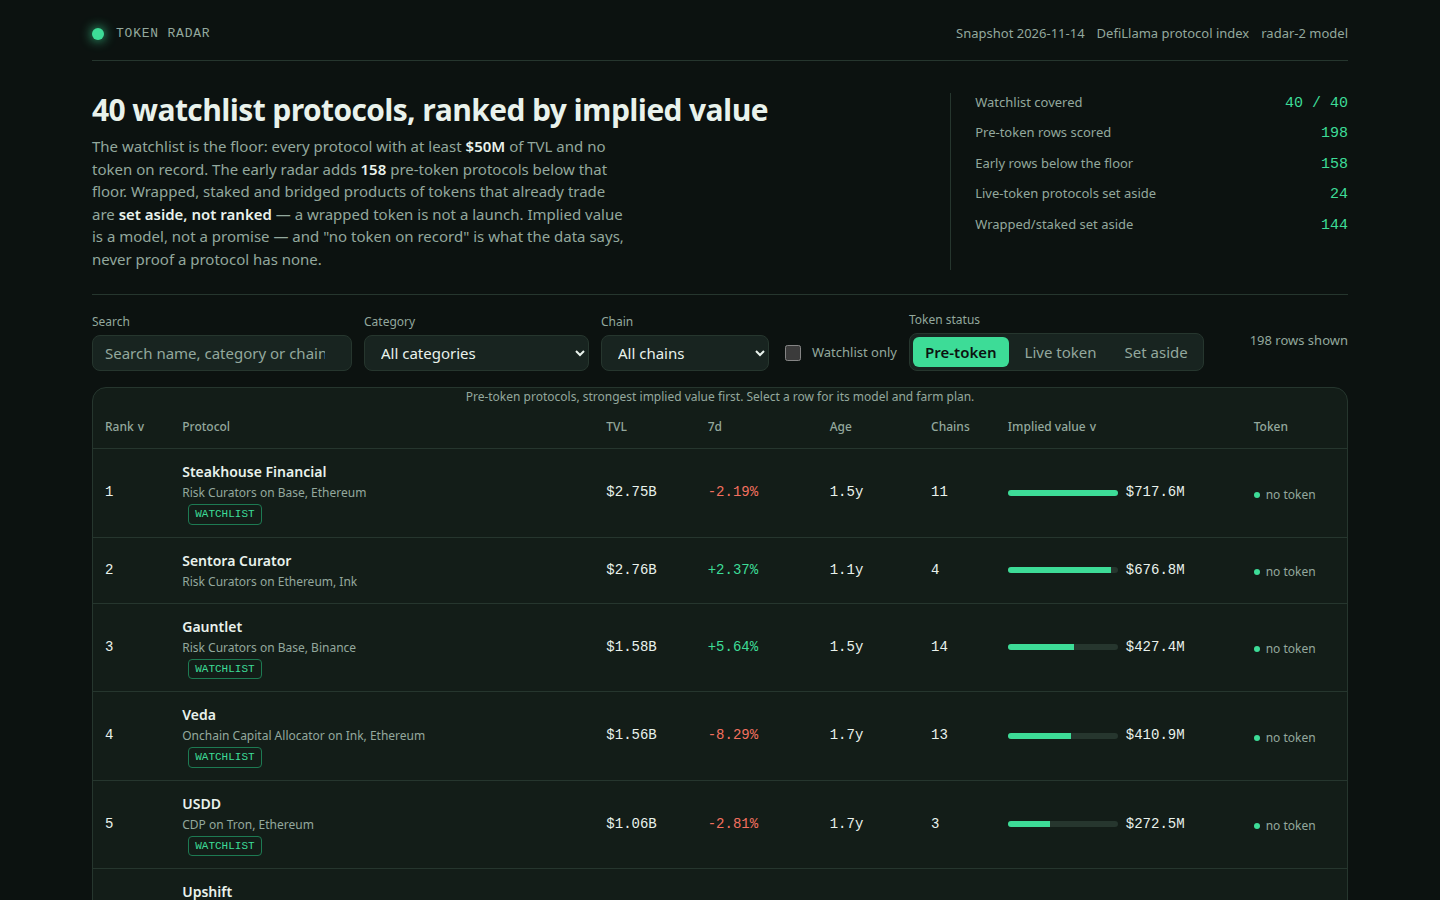
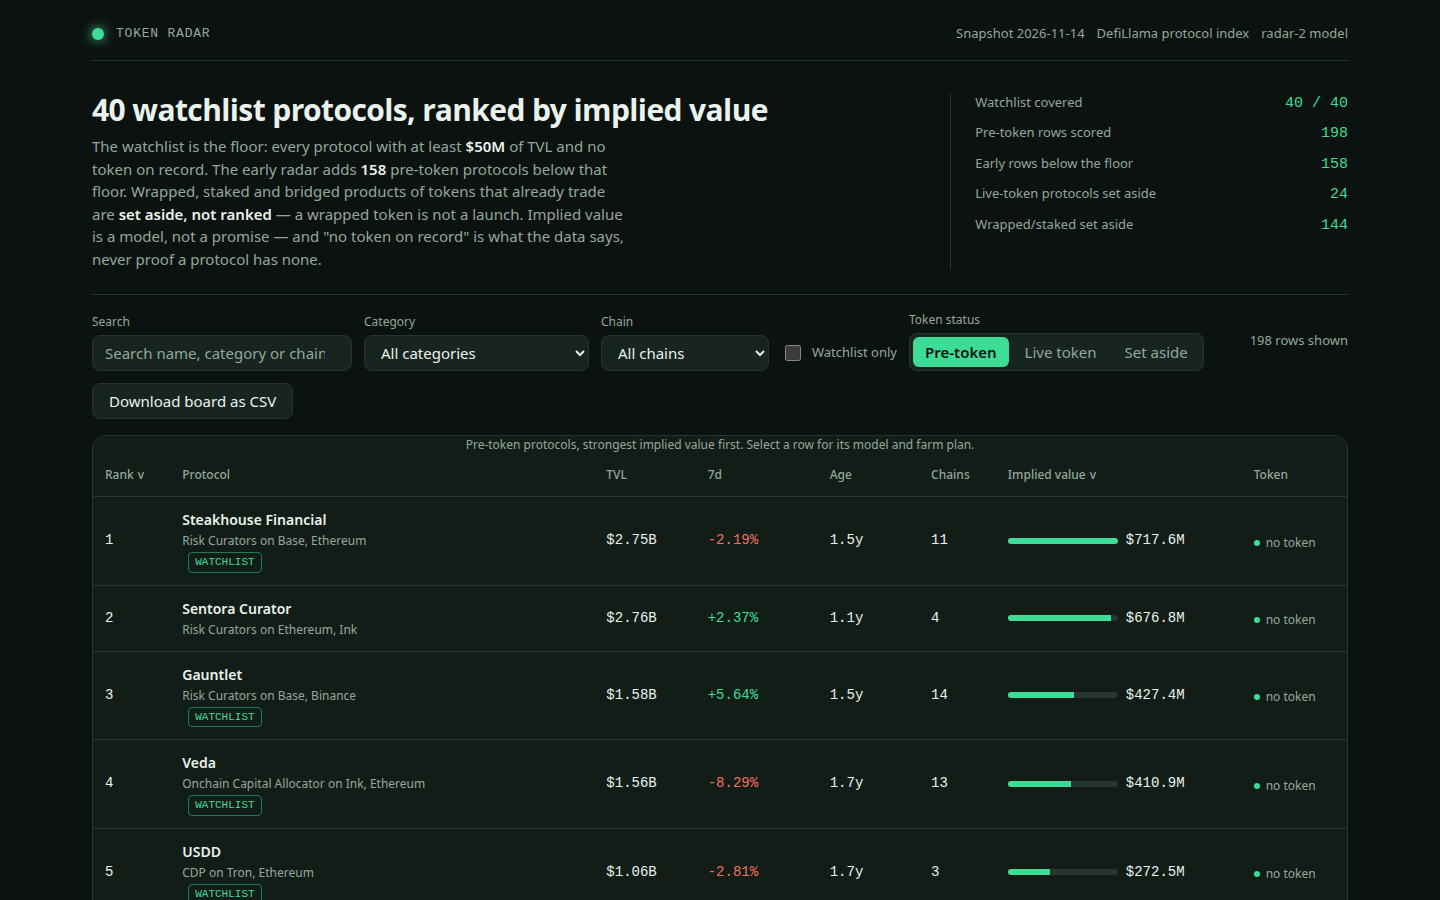
Add board CSV export, keep search focus, SPDX license line
- dashboard: Download board as CSV button exports the currently
  filtered/sorted pre-token rows (rank, protocol, slug, category,
  chains, TVL, 7d change, age, implied value, watchlist) as raw
  figures; proper CSV quoting; dark-theme .button styling.
- dashboard: render() restores focus to the search box after
  rebuilding, so typing a query no longer stops after one character.
- LICENSE: SPDX-License-Identifier: MIT line at the top.
- Screenshots re-shot against the updated dashboard.

diff --git a/dashboard/app.js b/dashboard/app.js
@@ -204,6 +204,41 @@
     });
   }
 
+  // Download the board as CSV: the rows the board is showing right now —
+  // the current search, category, chain and watchlist filters, in the
+  // current sort order. Raw figures, not the formatted strings, so the file
+  // is usable in a spreadsheet. Only the pre-token tab exports: the live
+  // and set-aside tabs have no ranked rows to export.
+  function csvCell(value) {
+    if (value === null || value === undefined) return '';
+    var s = String(value);
+    if (/[",\n\r]/.test(s)) return '"' + s.replace(/"/g, '""') + '"';
+    return s;
+  }
+  function boardCsv(list) {
+    var lines = [['rank', 'protocol', 'slug', 'category', 'chains', 'tvl_usd', 'change_7d_pct', 'age_days', 'implied_value_usd', 'watchlist']];
+    list.forEach(function (r) {
+      lines.push([
+        r.rank, r.name, r.slug, r.category || '', (r.chains || []).join(';'),
+        r.tvl_usd, r.change_7d === null ? '' : r.change_7d,
+        r.age_days === null ? '' : r.age_days, r.implied_value_usd,
+        WATCH[r.slug] ? 'yes' : 'no'
+      ]);
+    });
+    return lines.map(function (cells) { return cells.map(csvCell).join(','); }).join('\r\n') + '\r\n';
+  }
+  function downloadCsv() {
+    var blob = new Blob([boardCsv(sortedRows(rows()))], { type: 'text/csv;charset=utf-8' });
+    var url = URL.createObjectURL(blob);
+    var a = document.createElement('a');
+    a.href = url;
+    a.download = 'token-radar-board.csv';
+    document.body.appendChild(a);
+    a.click();
+    document.body.removeChild(a);
+    URL.revokeObjectURL(url);
+  }
+
   function header() {
     return el('header', { class: 'top' },
       el('div', { class: 'brand' }, el('span', { class: 'mark' }), el('span', { class: 'brand-name', text: 'Token Radar' })),
@@ -251,13 +286,17 @@
     var pre = el('button', { type: 'button', 'aria-pressed': state.tab === 'pre-token' ? 'true' : 'false', text: 'Pre-token', onclick: function () { state.tab = 'pre-token'; render(); } });
     var live = el('button', { type: 'button', 'aria-pressed': state.tab === 'live' ? 'true' : 'false', text: 'Live token', onclick: function () { state.tab = 'live'; render(); } });
     var aside = el('button', { type: 'button', 'aria-pressed': state.tab === 'set-aside' ? 'true' : 'false', text: 'Set aside', onclick: function () { state.tab = 'set-aside'; render(); } });
+    var csv = state.tab === 'pre-token'
+      ? el('button', { class: 'button', type: 'button', text: 'Download board as CSV', onclick: downloadCsv })
+      : null;
     return el('div', { class: 'controls' },
       el('div', { class: 'field' }, el('label', { for: 'q', text: 'Search' }), search),
       el('div', { class: 'field' }, el('label', { for: 'category', text: 'Category' }), select),
       el('div', { class: 'field' }, el('label', { for: 'chain', text: 'Chain' }), chainSelect),
       el('label', { class: 'check', for: 'wl' }, wl, 'Watchlist only'),
       el('div', { class: 'field' }, el('span', { class: 'sub', text: 'Token status' }), el('div', { class: 'tabs' }, pre, live, aside)),
-      el('span', { class: 'count', text: state.tab === 'pre-token' ? rows().length + ' rows shown' : state.tab === 'live' ? DATA.live.length + ' live-token protocols' : DATA.set_aside.length + ' set aside, not ranked' })
+      el('span', { class: 'count', text: state.tab === 'pre-token' ? rows().length + ' rows shown' : state.tab === 'live' ? DATA.live.length + ' live-token protocols' : DATA.set_aside.length + ' set aside, not ranked' }),
+      csv
     );
   }
 
@@ -499,6 +538,10 @@
   }
 
   function render() {
+    // render() rebuilds the whole board on every keystroke, which would
+    // drop the search box's focus after the first character: remember it
+    // and hand it back to the fresh input, caret at the end.
+    var refocusSearch = document.activeElement && document.activeElement.id === 'q';
     app.textContent = '';
     var shell = el('div', { class: 'shell' });
     shell.appendChild(header());
@@ -509,6 +552,10 @@
     app.appendChild(shell);
     app.setAttribute('aria-busy', 'false');
     if (!dialog.isConnected) app.appendChild(dialog);
+    if (refocusSearch) {
+      var q = document.getElementById('q');
+      if (q) { q.focus(); q.setSelectionRange(q.value.length, q.value.length); }
+    }
     if (state.selected) openDetail(state.selected);
   }
 
